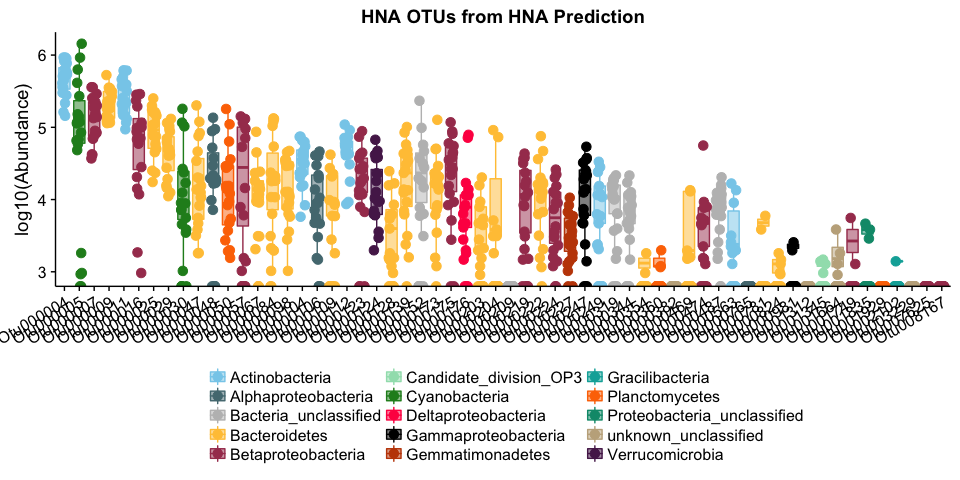
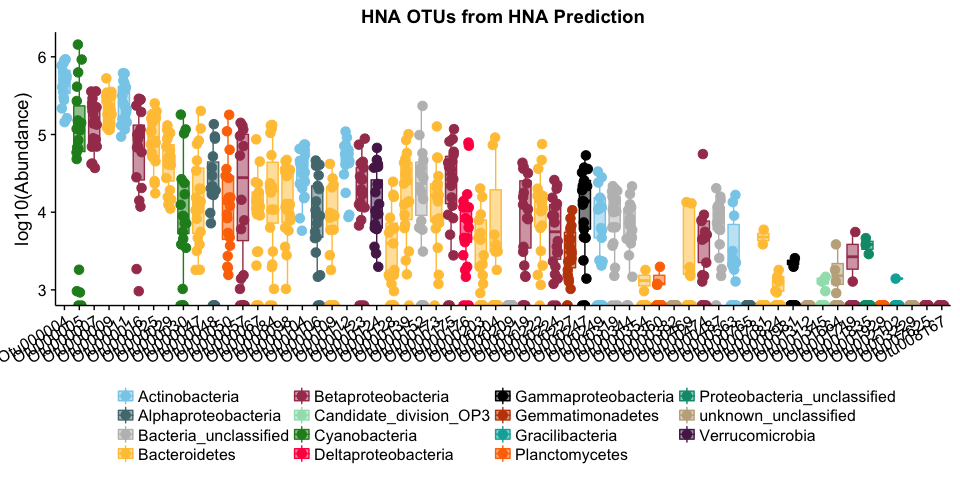
,

Changed region(s): [[0.0, 0.0625, 1.0, 0.9688], [0.7188, 0.2812, 0.75, 0.3438]]

diff --git a/Final/HNA_OutliersRemoved/June16_Analysis.md b/Final/HNA_OutliersRemoved/June16_Analysis.md
@@ -174,8 +174,8 @@ ggplot(AbsAbund_hna_otus, aes(x = reorder(OTU, Phylum), y = log10(Abs_Abund), fi
   ylab("log10(Abundance)") +
   #facet_grid(.~Phylum, scale = "free") +
   ggtitle("HNA OTUs from HNA Prediction") + 
-  guides(fill = guide_legend(ncol=3),
-         color = guide_legend(ncol=3)) +
+  guides(fill = guide_legend(ncol=4),
+         color = guide_legend(ncol=4)) +
   theme(legend.position = "bottom", #c(0.33, 0.85),
         legend.direction = "horizontal",
         legend.title = element_blank(),
@@ -196,7 +196,7 @@ ggplot(AbsAbund_hna_otus, aes(x = reorder(OTU, Phylum), y = OTU_fraction_HNA, fi
   ggtitle("HNA OTUs from HNA Prediction") + 
   guides(fill = guide_legend(ncol=3),
          color = guide_legend(ncol=3)) +
-  theme(legend.position = c(0.4, 0.65),
+  theme(legend.position = c(0.8, 0.85),
         legend.direction = "horizontal",
         legend.title = element_blank(),
         axis.title.x = element_blank(),
@@ -510,8 +510,8 @@ ggplot(AbsAbund_lna_otus, aes(x = reorder(OTU, Phylum), y = log10(Abs_Abund), fi
   ylab("log10(Abundance)") +
  # facet_grid(.~Phylum, scale = "free") +
   ggtitle("LNA OTUs from LNA Prediction") + 
-  guides(fill = guide_legend(ncol=3),
-         color = guide_legend(ncol=3)) +
+  guides(fill = guide_legend(ncol=5),
+         color = guide_legend(ncol=5)) +
   theme(legend.position = "bottom", #c(0.33, 0.85),
         legend.direction = "horizontal",
         legend.title = element_blank(),
@@ -532,7 +532,7 @@ ggplot(AbsAbund_lna_otus, aes(x = reorder(OTU, Phylum), y = OTU_fraction_LNA, fi
   ggtitle("LNA OTUs from LNA Prediction") + 
   guides(fill = guide_legend(ncol=3),
          color = guide_legend(ncol=3)) +
-  theme(legend.position = c(0.5, 0.65),
+  theme(legend.position = c(0.8, 0.85),
         legend.direction = "horizontal",
         legend.title = element_blank(),
         axis.title.x = element_blank(),
